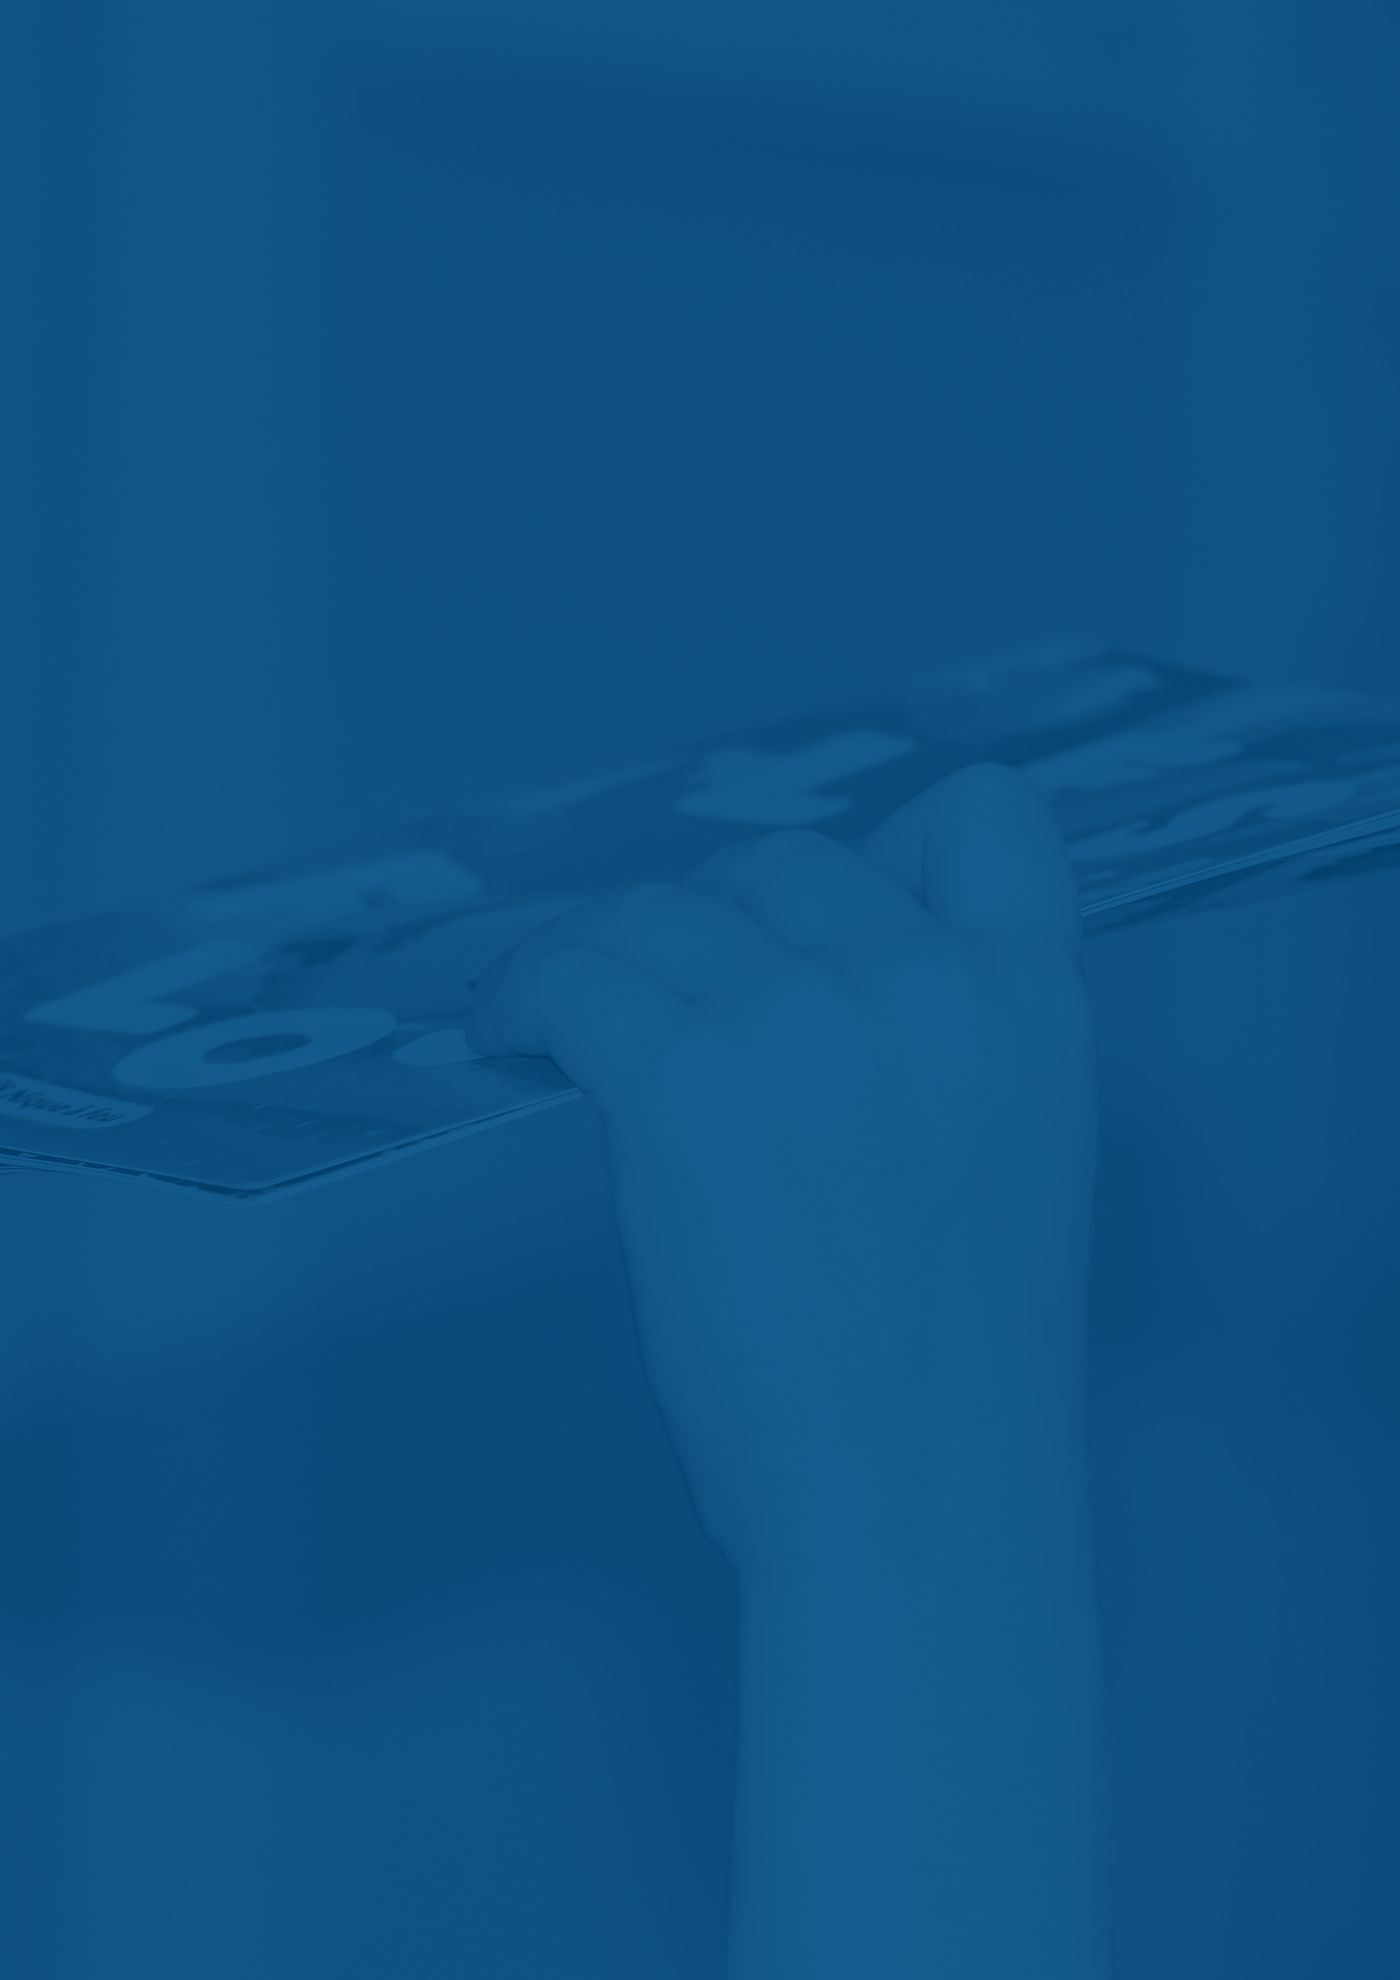
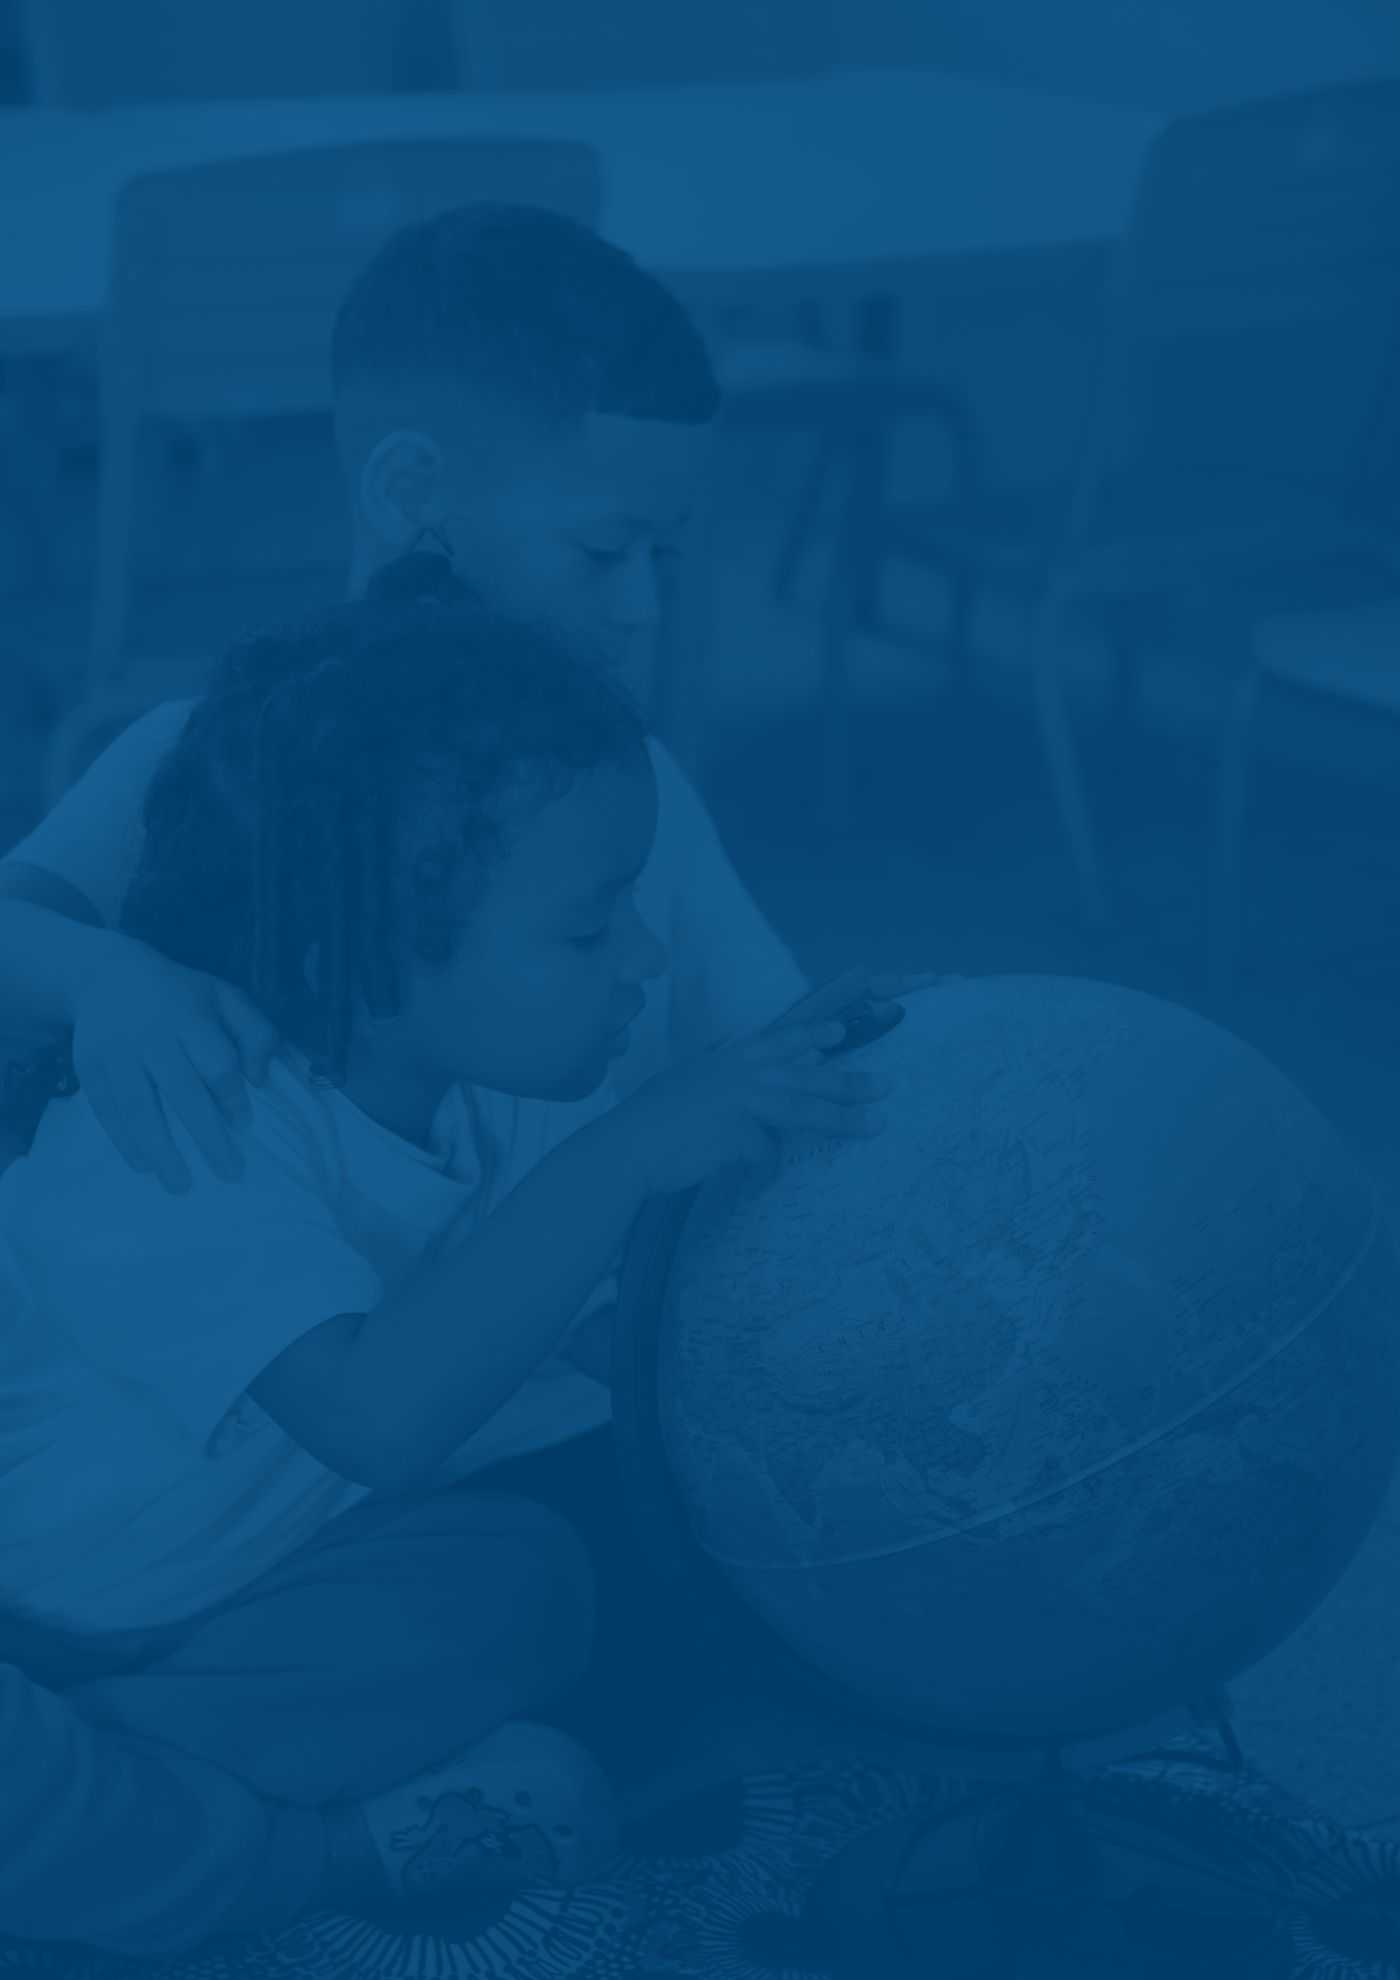
PDF: capa definitiva (opção D, azul) com a foto do globo e contracapa azul
- capa: opção D escolhida pelo usuário em 2026-11-10; opção A (clara) e capa_foto_sutil.jpg apagadas
- foto: crianças com um globo, EDI Aníbal Machado, Marcos de Paula / Prefeitura do Rio (uso autorizado pela
  Prefeitura), recortada sem os 15% de baixo; original em relatorio/latex/build/originais/ (fora do git)
- contracapa nova (pretextual/contracapa.tex): azul, dados da publicação e logo Prefeitura Rio | IPP
- expediente: crédito da foto atualizado; skill export_pdf_report atualizada

diff --git a/relatorio/latex/build/gera_capa_imagens.py b/relatorio/latex/build/gera_capa_imagens.py
@@ -5,49 +5,41 @@ Referência (pedido do usuário, 2026-11-05): os relatórios técnicos do IPP no
 Transformação na Economia Carioca", mar/2026) -- só os elementos principais (bloco institucional, edição mês | ano,
 logo, expediente com direção e equipe); cores e tipografia são as do projeto.
 
-Foto: "Criança segurando aberto um livro colorido com ilustrações", de Compagnons (@sigmund), Licença da Unsplash
-(a mesma do banner do site; a original fica em website/build/_cache/, baixada por website/build/gera_banner.py).
+Foto (escolhida pelo usuário em 2026-11-10, opção D -- azul): crianças com um globo, EDI Aníbal Machado, 19/10/2026,
+de Marcos de Paula / Prefeitura do Rio (uso autorizado pela Prefeitura). A original (~14 MB, nome original
+107A2653FP576_EDI_Anibal_Machado_19.10.2026_MARCOS DE PAULA.jpg) fica em relatorio/latex/build/originais/, fora do git; só a imagem tratada (pretextual/capa_foto_azul.jpg) é versionada.
+(Até 2026-11-10 a capa usava a foto do banner do site, Compagnons/Unsplash, em duas opções A clara e D azul.)
 Logo: website/assets/images/ipp-logo.png (clara, para fundo escuro) e uma versão escura gerada aqui.
 
 Uso:  python relatorio/latex/build/gera_capa_imagens.py
 """
-import sys
 from pathlib import Path
 
+import numpy as np
 from PIL import Image, ImageOps
 
 RAIZ = Path(__file__).resolve().parents[3]
 SAIDA = RAIZ / "relatorio" / "latex" / "pretextual"
-sys.path.insert(0, str(RAIZ / "website" / "build"))
-import gera_banner  # noqa: E402  (mesma foto e mesmo cache do banner)
+FOTO = RAIZ / "relatorio" / "latex" / "build" / "originais" / "capa_edi_anibal_machado_marcos_de_paula.jpg"
 
 A4 = 21 / 29.7          # largura / altura da página
-CENTRO_X = 0.55          # centro horizontal do recorte (livro e mãos)
+BASE = 0.85              # corta os 15% de baixo (cabelo de outra criança em primeiro plano; pedido do usuário)
 
 
 def recorte_retrato(foto):
+    """Do alto até BASE da altura, centrado na horizontal, na proporção A4."""
     w, h = foto.size
-    largura = round(h * A4)
-    x0 = min(max(0, round(w * CENTRO_X - largura / 2)), w - largura)
-    return foto.crop((x0, 0, x0 + largura, h))
+    y1 = round(h * BASE)
+    largura = min(w, round(y1 * A4))
+    x0 = (w - largura) // 2
+    return foto.crop((x0, 0, x0 + largura, round(largura / A4)))
 
 
 def main():
     """Estilo do projeto (pedido do usuário, 2026-11-05: "use our style"), com os elementos principais do documento
     técnico do IPP: faixa de foto no alto da capa, logo no pé da capa, da folha de rosto e do expediente."""
-    if not gera_banner.CACHE.exists():
-        gera_banner.main()            # baixa a original para o cache
-    foto = Image.open(gera_banner.CACHE).convert("RGB")
-    # capa limpa (pedido do usuário, 2026-11-05): a foto em página inteira, bem sutil -- já esmaecida aqui (86% branco
-    # e saturação reduzida), para não depender de transparência no leitor de PDF
-    from PIL import ImageEnhance
-    pagina = recorte_retrato(foto)
-    pagina = ImageEnhance.Color(pagina).enhance(0.7)
-    pagina = Image.blend(pagina, Image.new("RGB", pagina.size, "white"), 0.86)
-    pagina.resize((1400, round(1400 / A4)), Image.LANCZOS).save(
-        SAIDA / "capa_foto_sutil.jpg", "JPEG", quality=76, optimize=True, progressive=True)
-    # opção D (em avaliação, 2026-11-05): a mesma foto como textura no azul institucional (004A80 escurecido a claro)
-    import numpy as np
+    foto = ImageOps.exif_transpose(Image.open(FOTO)).convert("RGB")
+    # capa (opção D, escolhida em 2026-11-10): a foto como textura no azul institucional (004A80 escurecido a claro)
     lum = np.asarray(ImageOps.grayscale(recorte_retrato(foto)).resize((1400, round(1400 / A4)), Image.LANCZOS)) / 255
     escuro, claro = np.array([0, 59, 102]), np.array([24, 98, 150])
     Image.fromarray((escuro + (claro - escuro) * lum[..., None]).astype("uint8")).save(
@@ -58,7 +50,7 @@ def main():
     escura = Image.new("RGBA", logo.size, (0x16, 0x20, 0x2A, 0))
     escura.putalpha(logo.getchannel("A"))
     escura.save(SAIDA / "logo_ipp_escura.png")
-    for n in ("capa_foto_sutil.jpg", "logo_ipp_clara.png", "logo_ipp_escura.png"):
+    for n in ("capa_foto_azul.jpg", "logo_ipp_clara.png", "logo_ipp_escura.png"):
         print(f"{(SAIDA / n).relative_to(RAIZ)}: {(SAIDA / n).stat().st_size // 1024} KB")
 
 

diff --git a/relatorio/latex/pretextual/capa.tex b/relatorio/latex/pretextual/capa.tex
@@ -1,13 +1,14 @@
 % Capa -- editada à mão (2026-11-05; specs/2026-11-05_versao_final_site D6).
-% EM AVALIAÇÃO: duas opções seguidas, A (clara) e D (azul), a pedido do usuário; depois da escolha, apagar a outra.
+% Opção D (azul) escolhida pelo usuário em 2026-11-10; a opção A (clara, foto esmaecida) foi apagada.
 % Estrutura dos relatórios técnicos do IPP no Data.Rio (referência: "Panorama da Indústria da Transformação na
 % Economia Carioca", mar/2026, 1a página): aba de edição na borda esquerda, bloco institucional no alto, título grande
-% no meio, logo sozinha no pé. Estilo do projeto (azul institucional, título serifado). Foto do banner do site,
-% esmaecida (A) ou como textura no azul (D) -- imagens de relatorio/latex/build/gera_capa_imagens.py; crédito no
-% expediente. Selo "EM DESENVOLVIMENTO" só enquanto relatorio/publicacao.json disser pdf_em_desenvolvimento
-% (\ifemdesenvolvimento vem de gerado/aviso.tex): a marca d'água das outras páginas fica por baixo da foto da capa.
+% no meio, logo sozinha no pé. Estilo do projeto (azul institucional, título serifado). Foto (crianças com um globo,
+% Marcos de Paula / Prefeitura do Rio) como textura no azul -- imagem de relatorio/latex/build/gera_capa_imagens.py;
+% crédito no expediente. Contracapa
+% (mesmo azul) em pretextual/contracapa.tex. Selo "EM DESENVOLVIMENTO" só enquanto relatorio/publicacao.json disser
+% pdf_em_desenvolvimento (\ifemdesenvolvimento vem de gerado/aviso.tex): a marca d'água das outras páginas fica por baixo da foto da capa.
 
-% ---- partes comuns às duas opções ---------------------------------------------------------------------------------
+% ---- partes da capa (\capalogo também na contracapa) --------------------------------------------------------------
 \newcommand{\capaaba}[1]{% aba de edição: cor de fundo
   \fill[#1] (current page.north west) rectangle ([xshift=1.0cm, yshift=-7.6cm]current page.north west);
   \node[rotate=90, anchor=east, inner sep=0, text=white, font=\ttfamily\footnotesize]
@@ -33,20 +34,7 @@
 \newcommand{\capalogo}[1]{\node[anchor=south, inner sep=0] at ([yshift=2.0cm]current page.south)
   {\includegraphics[height=1.2cm]{pretextual/#1}};}
 
-% ---- opção A: clara, foto sutil na página inteira ------------------------------------------------------------------
-\begin{capa}
-  \thispagestyle{empty}
-  \begin{tikzpicture}[remember picture, overlay]
-    \node[anchor=north west, inner sep=0] at (current page.north west)
-      {\includegraphics[width=\paperwidth, height=\paperheight]{pretextual/capa_foto_sutil.jpg}};
-    \capaaba{ippnavy}
-    \capatexto{tinta2}{ippnavy}{ippnavy}{tinta}
-    \capalogo{logo_ipp_escura.png}
-    \capaselo
-  \end{tikzpicture}
-\end{capa}
-
-% ---- opção D: azul institucional, foto como textura ----------------------------------------------------------------
+% ---- capa: azul institucional, foto como textura (opção D, escolhida em 2026-11-10) ----------------------------------
 \begin{capa}
   \thispagestyle{empty}
   \begin{tikzpicture}[remember picture, overlay]

diff --git a/relatorio/latex/pretextual/contracapa.tex b/relatorio/latex/pretextual/contracapa.tex
@@ -1,0 +1,22 @@
+% Contracapa -- editada à mão (pedido do usuário, 2026-11-10): página inteira no azul institucional da capa (opção D),
+% com dados básicos da publicação e a logo Prefeitura Rio | IPP clara no pé, na mesma posição da capa (\capalogo,
+% de pretextual/capa.tex). Sem foto, sem número de página. Entra no fim de relatorio.tex, depois dos apêndices.
+% A marca d'água "EM DESENVOLVIMENTO" das outras páginas fica por baixo do azul, como na capa.
+\clearpage
+\thispagestyle{empty}
+\begin{tikzpicture}[remember picture, overlay]
+  \fill[ippnavy!82!black] (current page.south west) rectangle (current page.north east);
+  % fio dourado curto e bloco de dados, alinhados à margem do texto da capa (2,4 cm)
+  \fill[c4] ([xshift=2.4cm, yshift=-17.6cm]current page.north west) rectangle ([xshift=3.6cm, yshift=-17.7cm]current page.north west);
+  \node[anchor=north west, inner sep=0, align=left, text=white, font={\frauncesdisplay\fontsize{24}{29}\selectfont}]
+    at ([xshift=2.4cm, yshift=-18.3cm]current page.north west)
+    {Diagnóstico da Primeira Infância Carioca};
+  \node[anchor=north west, inner sep=0, align=left, text=white!80!ippnavy, font=\small]
+    at ([xshift=2.4cm, yshift=-19.8cm]current page.north west)
+    {Relatório técnico \textperiodcentered{} Rio de Janeiro, novembro de 2026\\[0.35cm]
+     Instituto Municipal de Urbanismo Pereira Passos (IPP)\\
+     Coordenadoria de Pesquisa, Avaliação e Políticas Públicas\\
+     Em parceria com a Casa Civil da Prefeitura da Cidade do Rio de Janeiro\\[0.35cm]
+     Versão interativa: ipp-dados.github.io/analise\_primeira\_infancia};
+  \capalogo{logo_ipp_clara.png}
+\end{tikzpicture}

diff --git a/relatorio/latex/pretextual/expediente.tex b/relatorio/latex/pretextual/expediente.tex
@@ -35,6 +35,6 @@
     \cargo{Parceria}\par
     Casa Civil da Prefeitura da Cidade do Rio de Janeiro\par
     \vfill
-    {\scriptsize\color{tinta3}Foto da capa: Compagnons, na Unsplash (Licença da Unsplash).\par}
+    {\scriptsize\color{tinta3}Foto da capa: Marcos de Paula / Prefeitura da Cidade do Rio de Janeiro (EDI Aníbal Machado, outubro de 2026).\par}
   \end{adjustwidth}
 \end{titlingpage}

diff --git a/relatorio/latex/relatorio.tex b/relatorio/latex/relatorio.tex
@@ -80,4 +80,6 @@
 
 \input{gerado/apendices}
 
+\input{pretextual/contracapa}   % contracapa azul (2026-11-10)
+
 \end{document}

diff --git a/.claude/skills/export_pdf_report/SKILL.md b/.claude/skills/export_pdf_report/SKILL.md
@@ -23,14 +23,14 @@ Google Docs; since then **the text is written directly in the `.tex` chapters** 
 | :--- | :--- | :--- |
 | `relatorio/latex/relatorio.tex` | master: class, metadata (`\autor`, `\preambulo`), order of parts, `\input` of each chapter | hand |
 | `relatorio/latex/capitulos/NN_<eixo>.tex` | **the 9 chapters** (Introdução, 7 eixos, Considerações finais): text, sections, `\figura{…}`, `\input{gerado/tabelas_corpo/…}`, `\vertabelas{\ref{tab:…}}` | **hand** |
-| `relatorio/latex/pretextual/` | `capa.tex` (two options A/D under evaluation), `folha_rosto.tex`, `expediente.tex` (direção + equipe técnica), `resumo.tex` (one page), `siglas.tex`; images by `build/gera_capa_imagens.py` | hand |
+| `relatorio/latex/pretextual/` | `capa.tex` (navy cover, option D chosen 2026-11-10), `contracapa.tex` (navy back cover, `\input` at the end of `relatorio.tex`), `folha_rosto.tex`, `expediente.tex` (direção + equipe técnica), `resumo.tex` (one page), `siglas.tex`; images by `build/gera_capa_imagens.py` | hand |
 | `relatorio/latex/textual/como_ler.tex` | "Como ler este relatório" (facts, not analysis) | hand |
 | `relatorio/latex/estilo.sty` | fonts, colours, ABNT captions, chapter openers, callout boxes, `\figura` | hand |
 | `relatorio/latex/fontes.bib` | **Fontes** list (NBR 6023) + `padroes` regex linking each `fonte_dados` text to an entry | hand |
 | `relatorio/latex/fontes/` | Fraunces + IBM Plex Sans (OFL), used by LaTeX **and** by the print figures | vendored |
 | `relatorio/latex/build/gera_latex.py` | builds the generated parts (appendix, in-body tables, nocite, watermark switch, icons), **checks the chapters**, compiles | code |
 | `relatorio/latex/build/tabelas.py` | CSV → ABNT table; per-table rules (`AJUSTES`), merges (`SUBSTITUI_NO_PDF`), size rules | code |
-| `relatorio/latex/build/gera_capa_imagens.py` | cover photo (faint / navy texture) and the dark/light IPP logo PNGs | code |
+| `relatorio/latex/build/gera_capa_imagens.py` | navy-textured cover photo (original, gitignored, in `build/originais/`) and the dark/light IPP logo PNGs | code |
 | `relatorio/latex/build/inventario_fontes.py` | sources inventory (`relatorio/inventario_fontes.md/.csv`) | code |
 | `relatorio/latex/gerado/` | generator output: `apendices.tex`, `tabelas_corpo/*.tex`, `nocite.tex`, `aviso.tex`, `icones.tex` | **never by hand** |
 | `relatorio/latex/_build/` | latexmk aux, image cache, `relatorio.pdf` | gitignored |
@@ -82,9 +82,12 @@ Run everything from the project root.
   line with `\citeonline`, label) and the `\vertabelas{Tabela~\ref{tab:…}}` line to the chapter.
 - **Indicators without data are not published** (user's decision, 2026-11-05): no "em desenvolvimento" box in the PDF
   or the site; they stay `status: pendente` in the crosswalk and in `docs/dados_faltantes.csv` / ROADMAP.
-- **Cover**: two options (A light, D navy) are both in `capa.tex` until the user chooses; delete the other then. Both
-  show an "EM DESENVOLVIMENTO" label while `relatorio/publicacao.json` says so (`\ifemdesenvolvimento`, written by
-  `gera_latex.py` into `gerado/aviso.tex`) — the page watermark is hidden under the cover photo.
+- **Cover**: option D (navy, photo as texture) chosen on 2026-11-10; option A (light) was deleted. Photo: children with
+  a globe, EDI Aníbal Machado, by Marcos de Paula / Prefeitura do Rio (use authorized by the Prefeitura; credit on the
+  staff page). The 14 MB original is in `relatorio/latex/build/originais/` (gitignored); `gera_capa_imagens.py` crops
+  it (bottom 15% cut: another child's hair) and writes `pretextual/capa_foto_azul.jpg`, which is committed. The cover
+  shows an "EM DESENVOLVIMENTO" label while `relatorio/publicacao.json` says so (`\ifemdesenvolvimento`, written by
+  `gera_latex.py` into `gerado/aviso.tex`) — the page watermark is hidden under the cover photo and the back cover.
 - **Staff page** (`expediente.tex`): names and positions given by the user; the mayor since 2026-03-20 is Eduardo
   Cavaliere. Keep `\autor` in `relatorio.tex` in sync with the technical team.
 
